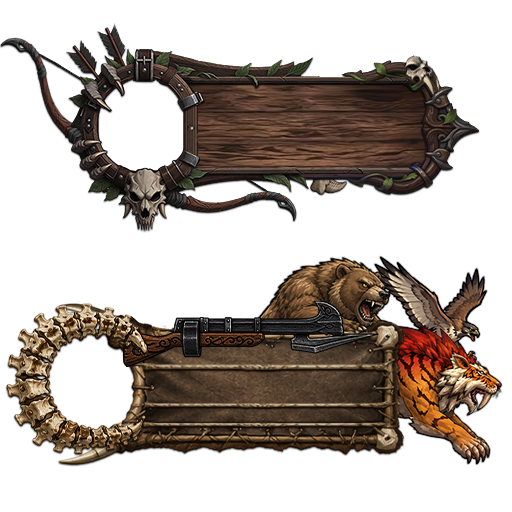
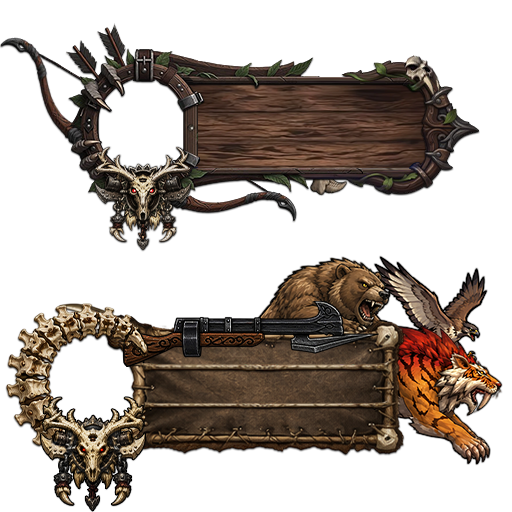
style: Update version to 1.3.10 and add survival hunter frames

Changed region(s): [[0.0625, 0.75, 0.75, 1.0], [0.1875, 0.2812, 0.375, 0.5]]

diff --git a/README.md b/README.md
@@ -1,7 +1,7 @@
 # EPF Custom Skins
 
 [![License: CC BY-NC-SA 4.0](https://img.shields.io/badge/License-CC%20BY--NC--SA%204.0-blue.svg)](https://creativecommons.org/licenses/by-nc-sa/4.0/)
-[![Version](https://img.shields.io/badge/Version-1.3.9-informational)](ElitePlayerFrame_Enhanced_CustomSkins.toc)
+[![Version](https://img.shields.io/badge/Version-1.3.10-informational)](ElitePlayerFrame_Enhanced_CustomSkins.toc)
 [![WoW](https://img.shields.io/badge/WoW-12.0.7%20(MN)-orange)](https://worldofwarcraft.blizzard.com/)
 [![Lua](https://img.shields.io/badge/Lua-5.x-blue)](https://www.lua.org/)
 

diff --git a/CHANGELOG.md b/CHANGELOG.md
@@ -4,6 +4,17 @@ All notable changes to **EPF Custom Skins** are documented in this file.
 
 The format is based on [Keep a Changelog](https://keepachangelog.com/en/1.1.0/), and this project adheres to [Semantic Versioning](https://semver.org/spec/v2.0.0.html).
 
+## [1.3.10] - 2026-08-10
+
+### Added
+
+- Added survival hunter frames
+
+### Changed
+
+- Updated Hunter frames and changed MM default frame.
+- Updated protection frame with paladin crest.
+
 ## [1.3.9] - 2026-08-07
 
 ### Added
